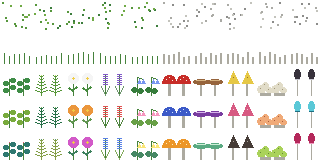
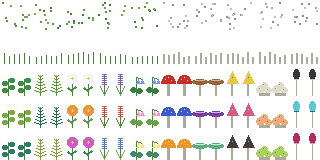
Stand herbs in a hash, and grow each tile daily at its own time
Upright plants stand at a quarter and three quarters across both ways,
through the middle of each plant. Tiles move on a stage a day down one
fixed list of plants, each starting at its own hour.

diff --git a/crates/client/src/dungeon_map/herbs.rs b/crates/client/src/dungeon_map/herbs.rs
@@ -2,10 +2,11 @@
 //! everyone since it comes from the server's clock and the place.
 //!
 //! The ground is always the land's own (`Cell::HerbBed` is drawn as outside
-//! ground). Every two game days everything moves on a stage: bare, dots, stalks,
-//! then full grown; after that a new cycle gives each tile a new plant, herb or
-//! mushroom, of a new shape and colour. Plants have a mesh of their own, which
-//! only changes with what is in sight and the stage.
+//! ground). Plants grow one after another down a fixed list, each through its
+//! four stages a game day apart: bare, dots, stalks, then full grown. Each tile
+//! starts somewhere of its own in that list, down to the hour, so tiles are at
+//! different stages and move on at different times of day. Plants have a mesh of
+//! their own, which only changes with what is in sight and the hour.
 
 use bevy::prelude::*;
 use shared::dungeon::{Cell, Level, Sight};
@@ -19,41 +20,85 @@ use super::town::cell_centre;
 /// of dots, stalks, then full grown in each colour. `tools/make_town_atlas.py`
 /// must match.
 pub const HERBS_PICTURE: &str = "herb_plants.png";
-const SHAPES: u64 = 5;
-const COLOURS: u64 = 3;
 const COLUMNS: f32 = 10.0;
 const ROWS: f32 = 5.0;
 
-/// Game hours between stages, and how many stages there are.
-const HOURS_PER_STAGE: u32 = 48;
+/// Every plant, as its column and full-grown row in the picture, in the order
+/// they follow each other: mixed up by hand, herbs and mushrooms together.
+const PLANT_LIST: [(u8, u8); 30] = [
+    (3, 3),
+    (7, 2),
+    (0, 4),
+    (9, 3),
+    (2, 2),
+    (5, 4),
+    (4, 3),
+    (8, 2),
+    (1, 2),
+    (6, 3),
+    (3, 4),
+    (5, 2),
+    (0, 2),
+    (9, 4),
+    (2, 3),
+    (7, 3),
+    (4, 2),
+    (6, 4),
+    (1, 4),
+    (8, 3),
+    (2, 4),
+    (5, 3),
+    (3, 2),
+    (9, 2),
+    (0, 3),
+    (6, 2),
+    (4, 4),
+    (7, 4),
+    (1, 3),
+    (8, 4),
+];
+
+/// Game hours between stages, and how many stages a plant has.
+const HOURS_PER_STAGE: u32 = 24;
 const STAGES: u32 = 4;
+
+/// How long the whole list takes, in game hours: a tile starts anywhere in it.
+const LIST_HOURS: u64 = PLANT_LIST.len() as u64 * STAGES as u64 * HOURS_PER_STAGE as u64;
 
 const HALF_CELL: f32 = CELL_SIZE / 2.0;
 
 /// How far dots lie above the ground, to stay in front of it.
 const DOTS_LIFT: f32 = 0.05;
 
-/// For choosing what grows on a tile.
-const PLANTS: Seed = Seed::new(0x68_6572_6273);
+/// Where upright plants stand, each way, as a share of a cell from its centre:
+/// through the middle of the two plants on each picture, making a `#`.
+const PLANT_ROWS: [f32; 2] = [-0.25, 0.25];
 
-/// How far everything has grown: stages since the world began.
+/// For choosing where each tile starts.
+const STARTS: Seed = Seed::new(0x68_6572_6273);
+
+/// The hour to grow by: the clock's, and whole stages more to look at them.
 pub fn growth(hour: u32, shift: u32) -> u32 {
-    (hour / HOURS_PER_STAGE).wrapping_add(shift)
+    hour.wrapping_add(shift.wrapping_mul(HOURS_PER_STAGE))
 }
 
-/// The picture's column and full-grown row of what grows on a tile in a cycle,
-/// at a place on the world map.
-fn plant(place: (i64, i64), (x, y): (i64, i64), cycle: u32) -> (u64, u64) {
-    let hash = PLANTS.at(&[place.0, place.1, x, y, i64::from(cycle)]);
-    let mushroom = hash & 1;
-    let shape = (hash >> 8) % SHAPES;
-    let colour = (hash >> 16) % COLOURS;
-    (mushroom * SHAPES + shape, 2 + colour)
+/// Which of `PLANT_LIST` a tile has at an hour, and at which stage.
+fn tile_growth(place: (i64, i64), (x, y): (i64, i64), hour: u32) -> (usize, u32) {
+    let start = STARTS.at(&[place.0, place.1, x, y]) % LIST_HOURS;
+    let hours = (u64::from(hour) + start) % LIST_HOURS;
+    let stage = hours / u64::from(HOURS_PER_STAGE);
+    (
+        (stage / u64::from(STAGES)) as usize,
+        (stage % u64::from(STAGES)) as u32,
+    )
 }
 
 /// A tile of the plants' picture, at `(u, v)` within it.
-fn plant_uv(column: u64, row: u64, u: f32, v: f32) -> [f32; 2] {
-    [(column as f32 + u) / COLUMNS, (row as f32 + v) / ROWS]
+fn plant_uv(column: u8, row: u8, u: f32, v: f32) -> [f32; 2] {
+    [
+        (f32::from(column) + u) / COLUMNS,
+        (f32::from(row) + v) / ROWS,
+    ]
 }
 
 /// Everything growing where anyone can see it. Nothing is drawn of it from
@@ -63,13 +108,9 @@ pub fn build_plants(
     sight: &Sight,
     remembered: &Sight,
     place: (i64, i64),
-    grown: u32,
+    hour: u32,
 ) -> Builder {
     let mut plants = Builder::default();
-    let (stage, cycle) = (grown % STAGES, grown / STAGES);
-    if stage == 0 {
-        return plants;
-    }
     let (min_x, min_y, width, height) = level.bounds();
     for y in min_y..min_y + height {
         for x in min_x..min_x + width {
@@ -77,17 +118,21 @@ pub fn build_plants(
                 && sight.is_seen(x, y)
                 && remembered.is_seen(x, y);
             if here {
-                let (column, full) = plant(place, (x, y), cycle);
-                tile(&mut plants, cell_centre(x, y), column, stage, full);
+                let (plant, stage) = tile_growth(place, (x, y), hour);
+                tile(&mut plants, cell_centre(x, y), PLANT_LIST[plant], stage);
             }
         }
     }
     plants
 }
 
-/// One tile's plants: dots flat on the ground, the rest upright, crossed.
-fn tile(plants: &mut Builder, centre: Vec3, column: u64, stage: u32, full: u64) {
+/// One tile's plants: nothing while bare, dots flat on the ground, the rest
+/// upright in a `#`.
+fn tile(plants: &mut Builder, centre: Vec3, (column, full): (u8, u8), stage: u32) {
     let colours = [Vec3::ONE; 4];
+    if stage == 0 {
+        return;
+    }
     if stage == 1 {
         let at = |east: f32, south: f32| centre + Vec3::new(east, DOTS_LIFT, south);
         let h = HALF_CELL;
@@ -104,9 +149,12 @@ fn tile(plants: &mut Builder, centre: Vec3, column: u64, stage: u32, full: u64) 
     let uvs = [(0.0, 1.0), (1.0, 1.0), (1.0, 0.0), (0.0, 0.0)];
     let uvs = uvs.map(|(u, v)| plant_uv(column, row, u, v));
     let up = Vec3::Y * CELL_SIZE;
-    for (normal, along) in [(Vec3::X, Vec3::Z), (Vec3::Z, Vec3::X)] {
-        let (a, b) = (centre - along * HALF_CELL, centre + along * HALF_CELL);
-        plants.free([a, b, b + up, a + up], normal, uvs, colours);
+    for offset in PLANT_ROWS {
+        for (normal, along) in [(Vec3::X, Vec3::Z), (Vec3::Z, Vec3::X)] {
+            let middle = centre + normal * offset * CELL_SIZE;
+            let (a, b) = (middle - along * HALF_CELL, middle + along * HALF_CELL);
+            plants.free([a, b, b + up, a + up], normal, uvs, colours);
+        }
     }
 }
 
@@ -114,59 +162,90 @@ fn tile(plants: &mut Builder, centre: Vec3, column: u64, stage: u32, full: u64) 
 mod tests {
     use super::*;
 
-    /// Two game days a stage, starting bare; four stages to a cycle.
     #[test]
-    fn plants_move_on_every_two_days() {
-        assert_eq!(growth(47, 0), 0);
-        assert_eq!(growth(48, 0), 1);
-        assert_eq!(growth(4 * 48, 0) / STAGES, 1);
-        assert_eq!(growth(4 * 48, 0) % STAGES, 0);
-        assert_eq!(growth(0, 3), 3);
+    fn the_list_has_every_plant_once() {
+        let found: std::collections::BTreeSet<_> = PLANT_LIST.into_iter().collect();
+        assert_eq!(found.len(), PLANT_LIST.len());
+        assert!(found.iter().all(|&(c, r)| c < 10 && (2..5).contains(&r)));
     }
 
-    /// Herbs and mushrooms in every shape and colour turn up, on one tile over
-    /// the cycles, and it can change from one to the next.
+    /// A tile moves on a stage a day, through a plant's four stages in order,
+    /// then on to the next plant in the list, and all the way round.
     #[test]
-    fn each_cycle_can_grow_something_else() {
-        let looks: std::collections::BTreeSet<_> = (0..2000)
-            .map(|cycle| plant((5, 9), (1, 2), cycle))
-            .collect();
-        assert_eq!(looks.len(), 10 * 3);
-        assert_ne!(
-            (0..8).map(|c| plant((5, 9), (1, 2), c)).collect::<Vec<_>>(),
-            vec![plant((5, 9), (1, 2), 0); 8]
-        );
-        for (column, row) in looks {
-            assert!(column < 10 && (2..5).contains(&row));
+    fn a_tile_moves_on_daily_down_the_list() {
+        let at = |hour: u32| tile_growth((5, 9), (1, 2), hour);
+        let mut seen = std::collections::BTreeSet::new();
+        let mut changes = 0;
+        for hour in 0..LIST_HOURS as u32 {
+            seen.insert(at(hour));
+            let (from, to) = (at(hour), at(hour + 1));
+            if from != to {
+                changes += 1;
+                let next = (from.1 + 1) % STAGES;
+                assert_eq!(to.1, next);
+                let plant = (from.0 + usize::from(next == 0)) % PLANT_LIST.len();
+                assert_eq!(to.0, plant);
+            }
+        }
+        assert_eq!(seen.len(), 30 * 4);
+        assert_eq!(changes, 30 * 4);
+        // A day later, a tile is always a stage on.
+        assert_ne!(at(100), at(124));
+    }
+
+    /// In one patch, tiles differ, and don't all change at the same hour.
+    #[test]
+    fn tiles_grow_at_their_own_times() {
+        let cells = (0..12).map(|x| (x, 0));
+        let looks: std::collections::BTreeSet<_> =
+            cells.clone().map(|c| tile_growth((1, 1), c, 500)).collect();
+        assert!(looks.len() > 6);
+        for hour in 0..24 {
+            let moved = cells
+                .clone()
+                .filter(|&c| tile_growth((1, 1), c, hour) != tile_growth((1, 1), c, hour + 1))
+                .count();
+            assert!(moved < 12, "all at hour {hour}");
         }
     }
 
     #[test]
-    fn nothing_is_drawn_while_bare_or_unseen() {
-        let mut level = Level::new(0, 0, 2, 1);
-        level.set(0, 0, Cell::HerbBed);
-        level.set(1, 0, Cell::HerbBed);
-        let mut seen = Sight::new(&level);
-        seen.insert(0, 0);
+    fn a_shift_is_whole_stages() {
+        assert_eq!(growth(5, 2), 53);
+    }
+
+    #[test]
+    fn stages_draw_nothing_a_flat_surface_or_a_hash() {
+        let mut plants = Builder::default();
+        tile(&mut plants, Vec3::ZERO, (0, 2), 0);
+        assert!(plants.indices.is_empty());
+        tile(&mut plants, Vec3::ZERO, (0, 2), 1);
+        assert_eq!(plants.indices.len(), 6);
+        let mut plants = Builder::default();
+        tile(&mut plants, Vec3::ZERO, (0, 2), 3);
+        assert_eq!(plants.indices.len(), 4 * 6);
+    }
+
+    #[test]
+    fn only_tiles_in_sight_are_drawn() {
+        let mut level = Level::new(0, 0, 40, 1);
+        for x in 0..40 {
+            level.set(x, 0, Cell::HerbBed);
+        }
         let none = Sight::new(&level);
-        assert!(
-            build_plants(&level, &seen, &seen, (0, 0), 0)
-                .indices
-                .is_empty()
-        );
         assert!(
             build_plants(&level, &none, &none, (0, 0), 3)
                 .indices
                 .is_empty()
         );
-        // One tile: flat dots are one surface, crossed stalks two.
-        assert_eq!(
-            build_plants(&level, &seen, &seen, (0, 0), 1).indices.len(),
-            6
-        );
-        assert_eq!(
-            build_plants(&level, &seen, &seen, (0, 0), 2).indices.len(),
-            12
+        let mut seen = Sight::new(&level);
+        for x in 0..40 {
+            seen.insert(x, 0);
+        }
+        assert!(
+            !build_plants(&level, &seen, &seen, (0, 0), 3)
+                .indices
+                .is_empty()
         );
     }
 }

diff --git a/crates/client/src/dev_tools/mod.rs b/crates/client/src/dev_tools/mod.rs
@@ -18,8 +18,7 @@
 //!   `StairsStyle::ALL`).
 //! - `GAME_FIELDS=n`: draw every field as this stage (its `variety`: for crops
 //!   0 ploughed, 1 grass, 2 short, 3 tall, 4 ripe).
-//! - `GAME_HERBS=n`: draw herb patches `n` stages further on (0 bare, 1 dots, 2
-//!   stalks, 3 full grown, at a world starting on a new cycle; 4 on, new plants).
+//! - `GAME_HERBS=n`: draw every herb tile `n` stages (game days) further on.
 //! - `GAME_TRAVEL=x,y`: start travelling to a grid position (as if clicked),
 //!   once at `GAME_POS` if set, otherwise two seconds after starting.
 //! - `GAME_WALK=1`: start with auto-walk on (as if G was pressed).

diff --git a/tools/make_town_atlas.py b/tools/make_town_atlas.py
@@ -257,7 +257,8 @@ def plants():
             else:
                 cap, spot = colours[column][way]
                 shape = herb_shapes[column]
-            for x in (9, 23):
+            # Where the planes of a `#` cross: a quarter and three quarters across.
+            for x in (8, 24):
                 shape(draw, x, cap + (255,), spot + (255,))
             sheet.paste(tile_image, place)
     sheet.save(PLANTS)

diff --git a/crates/client/src/dungeon_map/mod.rs b/crates/client/src/dungeon_map/mod.rs
@@ -794,7 +794,7 @@ fn update_crops(
 }
 
 /// Builds what grows in a herbalist's patch again when what is seen changes,
-/// or it moves on a stage.
+/// or an hour passes: some tile may move on a stage in any of them.
 #[allow(clippy::too_many_arguments)]
 fn update_herbs(
     dungeon: Res<CurrentDungeon>,

diff --git a/docs/context/client/dungeon_map.md b/docs/context/client/dungeon_map.md
@@ -4,7 +4,7 @@ The dungeon (and building) view: `shared::dungeon` cells drawn in 3D through `vi
 
 ## Files
 
-- `crates/client/src/dungeon_map/mod.rs`: `DungeonMapPlugin`. `spawn_scene` (Startup: a `DungeonScene` root with one solid mesh per `Surface` (`SolidPart(surface)`), one remembered mesh per `Surface` (`MemoryPart(surface)`) and one see-through wall mesh, unlit, each with its own tile material (nearest sampling, `load_tile`), kept in `SurfaceMaterials`). `apply_theme` (when `CurrentDungeon` changes: wall and floor pictures from `Theme::of(LevelInfo::kind)`, queuing grey copies). `colour_ground` (every frame in the view, one sample of the land at `WorldReturn`, without jitter: when `SurfaceStyle::ground_colour` differs from what is painted, `recoloured` copies the ground picture in that colour, keeping its detail; remembered ground stays grey). `grey_pictures` (every frame while any are queued: once a picture has loaded, a grey copy (`greyed`, Rec. 601 weights) for the remembered material; copies are cached by picture). `pick_on_click` (in `PlayerSystems::Input` after `View3dSystems::Click`, unless a token was clicked: sends `TravelTo` for a remembered (including seen) walkable cell, using `CurrentDungeon::remembered` and the private `Shown` resource: last combined sight, solid wall sides). `show_scene` / `hide_scene` on entering/leaving the view (also sets `ViewGrid` to `CELL_SIZE` with the floor at 0, and the dim ambient light for tokens; leaving shows all tokens again). `update_meshes` (when a viewer or light moves, a `LightSource` or the level changes, or the camera's position changes (turning, zooming, following the player): one `Sight` per viewer plus the combined one, from `add_glimpses` (open cells partly in view count, so side openings off a corridor show), worked out on the known level (unknown cells are wall); seen known cells are added to `CurrentDungeon::remembered` (bypassing change detection); light, rebuild, store `Shown`; writes `ViewStats`, starting with `CurrentDungeon::describe()`; empty meshes are hidden, not replaced; sight is worked out again only when a viewer or the level changes, not when only the camera moves). `hide_unseen_tokens` (after `update_meshes`). `update_herbs` (rebuilds plants when sight changes or they move on a stage). `update_crops` (after `update_meshes`, only when sight was worked out again, never for the camera: a farm can have far more crop faces than everything else; `CropPart`, cut-out alpha, no culling). `sync_lights` (one Bevy `PointLight` per `LightSource`, to light tokens). Constants `CELL_SIZE` (1.5 × token diameter = 24, about the token's picture), `WALL_HEIGHT`, `AMBIENT_LIGHT` (0.1), `SEE_THROUGH_ALPHA` (0.5), `MEMORY_ALPHA` (0.5), token light constants.
+- `crates/client/src/dungeon_map/mod.rs`: `DungeonMapPlugin`. `spawn_scene` (Startup: a `DungeonScene` root with one solid mesh per `Surface` (`SolidPart(surface)`), one remembered mesh per `Surface` (`MemoryPart(surface)`) and one see-through wall mesh, unlit, each with its own tile material (nearest sampling, `load_tile`), kept in `SurfaceMaterials`). `apply_theme` (when `CurrentDungeon` changes: wall and floor pictures from `Theme::of(LevelInfo::kind)`, queuing grey copies). `colour_ground` (every frame in the view, one sample of the land at `WorldReturn`, without jitter: when `SurfaceStyle::ground_colour` differs from what is painted, `recoloured` copies the ground picture in that colour, keeping its detail; remembered ground stays grey). `grey_pictures` (every frame while any are queued: once a picture has loaded, a grey copy (`greyed`, Rec. 601 weights) for the remembered material; copies are cached by picture). `pick_on_click` (in `PlayerSystems::Input` after `View3dSystems::Click`, unless a token was clicked: sends `TravelTo` for a remembered (including seen) walkable cell, using `CurrentDungeon::remembered` and the private `Shown` resource: last combined sight, solid wall sides). `show_scene` / `hide_scene` on entering/leaving the view (also sets `ViewGrid` to `CELL_SIZE` with the floor at 0, and the dim ambient light for tokens; leaving shows all tokens again). `update_meshes` (when a viewer or light moves, a `LightSource` or the level changes, or the camera's position changes (turning, zooming, following the player): one `Sight` per viewer plus the combined one, from `add_glimpses` (open cells partly in view count, so side openings off a corridor show), worked out on the known level (unknown cells are wall); seen known cells are added to `CurrentDungeon::remembered` (bypassing change detection); light, rebuild, store `Shown`; writes `ViewStats`, starting with `CurrentDungeon::describe()`; empty meshes are hidden, not replaced; sight is worked out again only when a viewer or the level changes, not when only the camera moves). `hide_unseen_tokens` (after `update_meshes`). `update_herbs` (rebuilds plants when sight changes or an hour passes). `update_crops` (after `update_meshes`, only when sight was worked out again, never for the camera: a farm can have far more crop faces than everything else; `CropPart`, cut-out alpha, no culling). `sync_lights` (one Bevy `PointLight` per `LightSource`, to light tokens). Constants `CELL_SIZE` (1.5 × token diameter = 24, about the token's picture), `WALL_HEIGHT`, `AMBIENT_LIGHT` (0.1), `SEE_THROUGH_ALPHA` (0.5), `MEMORY_ALPHA` (0.5), token light constants.
 - `crates/client/src/dungeon_map/mesh.rs`: `Surface` (`Floor`, `Wall`, `Door` (frames of doors and windows in buildings), `Ground`, `Water`, `Lava`, `WallBlend` (the wall's picture fading across the floor, on a blended material): one mesh and picture each). `LightGrid` (light per cell: `add_light` uses `shared::dungeon::Sight` with the radius, so walls block it; strength `1 − (d / (radius + 1))²`; corner light = average over the open cells round a grid corner). `View` (a viewer's cell and its own `Sight`), `WallFace` (a piece of solid wall for picking, with its size). `build(level, views, sight, remembered, light, stairs, camera, shape)` (only remembered cells: flat open cells and stairs here, in `build_open_cell`; walls, doors and windows through `walls`; returns the solid faces for picking). `faces_camera(centre, normal, camera)` (the camera's position is in front of the side's plane). `MEMORY_SHADE` (0.3). `Builder` (collects quads; `free` takes any four corners). Unit tests.
 - `crates/client/src/dungeon_map/walls.rs`: `build_wall` draws a wall cell in four quarters, each with its piece of floor (like the nearest open cell, stopping at the wall's foot: `Patch`, `wall_foot`; in `Natural` places `fade_wall` fades the wall's picture across it, `BLEND_WIDTH` 0.25 of a cell), up to two faces (`face_at`: where they stand, from `WallShape::reach`) and its top. A quarter shows if an open cell round that corner of the cell is seen or remembered, so the far side of a wall and the inside of solid rock stay dark; a face if a viewer also stands in front of it. A quarter liquid reaches goes through `wet_quarter`, and `face_under_liquid` carries a face straight down from its foot to the bed, only where liquid touches it. `build_opening`: a door or window, floor plus a wall with a hole (`Opening`: its height, width, arch). Natural windows are `build_pillars` (5 columns, or stalagmites under stalactites, by a hash of the position). `half_thickness`: straight, or curved like a C (narrowest half way up at the shared thickness, `NATURAL_WALL_HALF` 0.2 of a cell at top and bottom); natural faces are cut up and their inner points wander (`ROUGHNESS`, also shading). `Layers`, `Layer` (`Solid`, `SeeThrough`, `Memory`), `Scene`.
 - `crates/client/src/dungeon_map/liquid.rs`: water and lava as channels cut into the floor, drawn in quarters like walls. `outline_at` (the `Outline` of a quarter from the four cells round its grid corner; walls count as liquid where liquid reaches them, and a wall's quarter gets liquid up to its foot): `Round`, `AlongEast` / `AlongSouth` (half a cell wide, `CHANNEL_HALF`), `Notch` (a round bite of floor at the corner), `Full`. `build_cell` draws a liquid cell; `Quarter` draws a quarter: surface (`SURFACE_DROP` below the floor), for what is in sight the bed and sides in the floor's picture (`surfaces_near`), and the floor beside it. `Bed`, `bed_at`: a narrow cell (floor on two opposite sides, `is_narrow`) is half a cell deep, sloping to `FULL_DEPTH` only at seams with a wall or a liquid cell that isn't narrow; anything else is `FULL_DEPTH` all over. `opacity(surface)`: water 0.35, lava solid. `depth_shade` (sides, and walls under liquid: evenly darker from the floor down: 20% at the floor, 40% at half a cell, 60% at a full cell) and `bed_shade` (20% darker again, so 60% and 80%, following a sloping bed). Tests: all 81 combinations round a corner meet on the shared edges.
@@ -14,7 +14,7 @@ The dungeon (and building) view: `shared::dungeon` cells drawn in 3D through `vi
 - `crates/client/src/dungeon_map/theme.rs`: `Theme { wall, floor, shape }` and `Theme::of(Option<PoiKind>)`: stone (castles, forts, stone towers and cottages, warehouses, pyramids...; also the test room), wood (huts, tents, cottages, wooden towers), crypt (crypts, graves, mausoleums, ruins, cellars under barrels), cave (natural caves, boulders), ice (ice cave, ice shelter). `Shape`: `Built` (stone, wood: straight walls, square doors, framed windows), `Natural` (crypt, cave, ice: curved walls, arched doors, windows of columns). `picture(surface)`: doors (wood), outside ground (grass, repainted by `colour_ground`), water and lava are the same in every theme. Test: every named picture exists.
 - `crates/client/src/dungeon_map/town.rs`: what only towns have, all in `Surface::Town` from `assets/town_atlas.png` (made by `tools/make_town_atlas.py`; tile order must match). `build_flat` (roads, gardens), `build_hedges`, `build_buildings` (each drawn whole: `build_cell` in quarters: roof inside the wall line, ground beyond it unless the building carries on; faces round it; `Roof`; `build_door_or_window`). `in_the_way`: buildings on the camera's line to a viewer go half see-through (in the `stairs_through` mesh of `Surface::Town`).
 - `crates/client/src/dungeon_map/field.rs`: what only farms have. `Stage` (`Ploughed`, `Grass`, `Short`, `Tall`, `Ripe`; `Stage::of(field)`: from the field's `variety`; pasture only `Grass` or `Short`). `build_field` (the flat ground, in `Surface::Town`; false for a ruined cell that is the land's own: `ruined_tile`, a hash of its position: 20% land, 20% ploughed, 60% grass), `build_fence` (rails and posts of `Fence` cells down their middle, joining neighbours; a `FieldGate`'s two posts and its leaf standing open at 45 degrees into the field, with an upright bar at its open end), `build_crops` (what `update_crops` draws), `CROPS_PICTURE` (`assets/field_crops.png`, made by `tools/make_town_atlas.py`). Tests.
-- `crates/client/src/dungeon_map/herbs.rs`: what grows in a herbalist's patch, on its own mesh (`HerbPart`, cut-out alpha). `growth(hour, shift)`: stages since the world began (`HOURS_PER_STAGE` 48), 4 to a cycle: bare, dots, stalks, full grown. `plant`: each tile's herb or mushroom, of 5 shapes and 3 colours, from a hash of the world map place, the cell and the cycle, so everyone draws the same, and a new one each cycle. `build_plants`: dots lie flat, the rest stand crossed. `HERBS_PICTURE` (`assets/herb_plants.png`, made by `tools/make_town_atlas.py`). Tests.
+- `crates/client/src/dungeon_map/herbs.rs`: what grows in a herbalist's patch, on its own mesh (`HerbPart`, cut-out alpha). `PLANT_LIST`: all 30 plants (5 shapes and 3 colours, herbs and mushrooms) in a fixed mixed order, each going through 4 stages a game day apart (`HOURS_PER_STAGE` 24): bare, dots, stalks, full grown. `tile_growth`: where a tile is in that list at an hour: each starts at its own hour, from a hash of the world map place and the cell, so everyone draws the same and tiles change at different times. `growth(hour, shift)`: the hour, plus whole stages to look at them. `build_plants`: dots lie flat, the rest stand in a `#` at a quarter and three quarters across, through the middle of each of the picture's two plants. `HERBS_PICTURE` (`assets/herb_plants.png`, made by `tools/make_town_atlas.py`). Tests.
 - `crates/client/src/dungeon_map/rain.rs`: `RainMaterial`, `RainPart`, `spawn`, `update` (every frame: `shared::weather` and sea-level temperature at `WorldReturn`, as `world_map::sky` works them out, for the shader; when `Shown` changes and the outside cells in sight differ, rebuilds the drops, `DROPS_PER_CELL` quads per cell, placed from a hash of the cell). `FALL_HEIGHT`. Shader: `assets/shaders/site_precipitation.wesl`, whose kinds, sizes and speeds must match `precipitation.wesl`.
 
 ## Public API

diff --git a/docs/context/decisions.md b/docs/context/decisions.md
@@ -323,6 +323,6 @@ Basements are the last level of a site, so existing levels keep their indexes (`
 
 ## 2026-10-31: Herbalists' huts: a patch that grows by the clock
 
-The owner's design: a one-storey hut of 5 to 8 a side over a basement that can be larger, with one herb patch outside of 3 to 5 parallel strips 7 to 12 long. Each tile (`Cell::HerbBed`) grows a herb or a mushroom, chosen by the client: the same for every client, as it comes from a hash of the place and the server's clock. Every 2 game days the patch moves on a stage (plain ground, green or grey dots, stalks, full grown), and each 4-stage cycle may bring something different in shape and colour. Unlike fields, this depends only on time, not season.
+The owner's design: a one-storey hut of 5 to 8 a side over a basement that can be larger, with one herb patch outside of 3 to 5 parallel strips 7 to 12 long. Each tile (`Cell::HerbBed`) grows herbs or mushrooms, chosen by the client: the same for every client, as it comes from a hash of the place and the server's clock. Every game day a tile moves on a stage (plain ground, green or grey dots, stalks, full grown). The owner chose a fixed list of plants in a mixed order, each with all 4 stages, and each tile starting at a random hour in it, so tiles are at different stages and don't all change at once. Unlike fields, this depends only on time, not season. Upright plants stand in a `#` through the middle of the two plants in each picture, to look more solid.
 
-Claude's choices: 5 shapes of each with 3 colours; the whole patch at one stage rather than staggered; walkable strips with ground between, no fence or track; huts in forest biomes only, by their own hash; a ruin's patch grows on. World map version stays 3, unreleased on this branch.
+Claude's choices: 5 shapes of each with 3 colours, so 30 plants in the list; walkable strips with ground between, no fence or track; huts in forest biomes only, by their own hash; a ruin's patch grows on. World map version stays 3, unreleased on this branch.

diff --git a/docs/context/client/dev_tools.md b/docs/context/client/dev_tools.md
@@ -14,7 +14,7 @@ Developer helpers driven by environment variables. Compiled for native only (`#[
 - `GAME_MOVE=dx,dy`: two seconds after starting, step the player this far (`player::TakeStep`s, so not into walls; e.g. off the stairs they arrived on, to look at them).
 - `GAME_STAIRS=n`: draw all stairs as this style (an index into `StairsStyle::ALL`: 0 spiral, 1 turning, 2 ladder, 3 log ladder, 4 rope ladder, 5 slat ladder, 6 knotted rope).
 - `GAME_FIELDS=n`: draw every field as this stage (its `variety`: for crops 0 ploughed, 1 grass, 2 short, 3 tall, 4 ripe; pasture alternates grass and short).
-- `GAME_HERBS=n`: draw herb patches `n` stages further on than the clock says (`common::HerbGrowthShift`).
+- `GAME_HERBS=n`: draw every herb tile `n` stages (game days) further on than the clock says (`common::HerbGrowthShift`).
 - `GAME_TRAVEL=x,y`: start travelling there (as if clicked), on either map, once the player is at `GAME_POS` if that is set, otherwise two seconds after starting (the server's answer, or putting the player back in their site, would end an earlier journey); combine with `GAME_SCREENSHOT_DELAY` to catch it mid-journey.
 - `GAME_WALK=1`: start with `demo::AutoWalk` on (one step east per frame); with a screenshot, the HUD shows the per-step update cost.
 - `GAME_SNOW=n`: once connected, ask the server (`DevSnowLine`) for the snow line at `n` (128 normal, 0 frozen), for screenshots of the temperature states.
